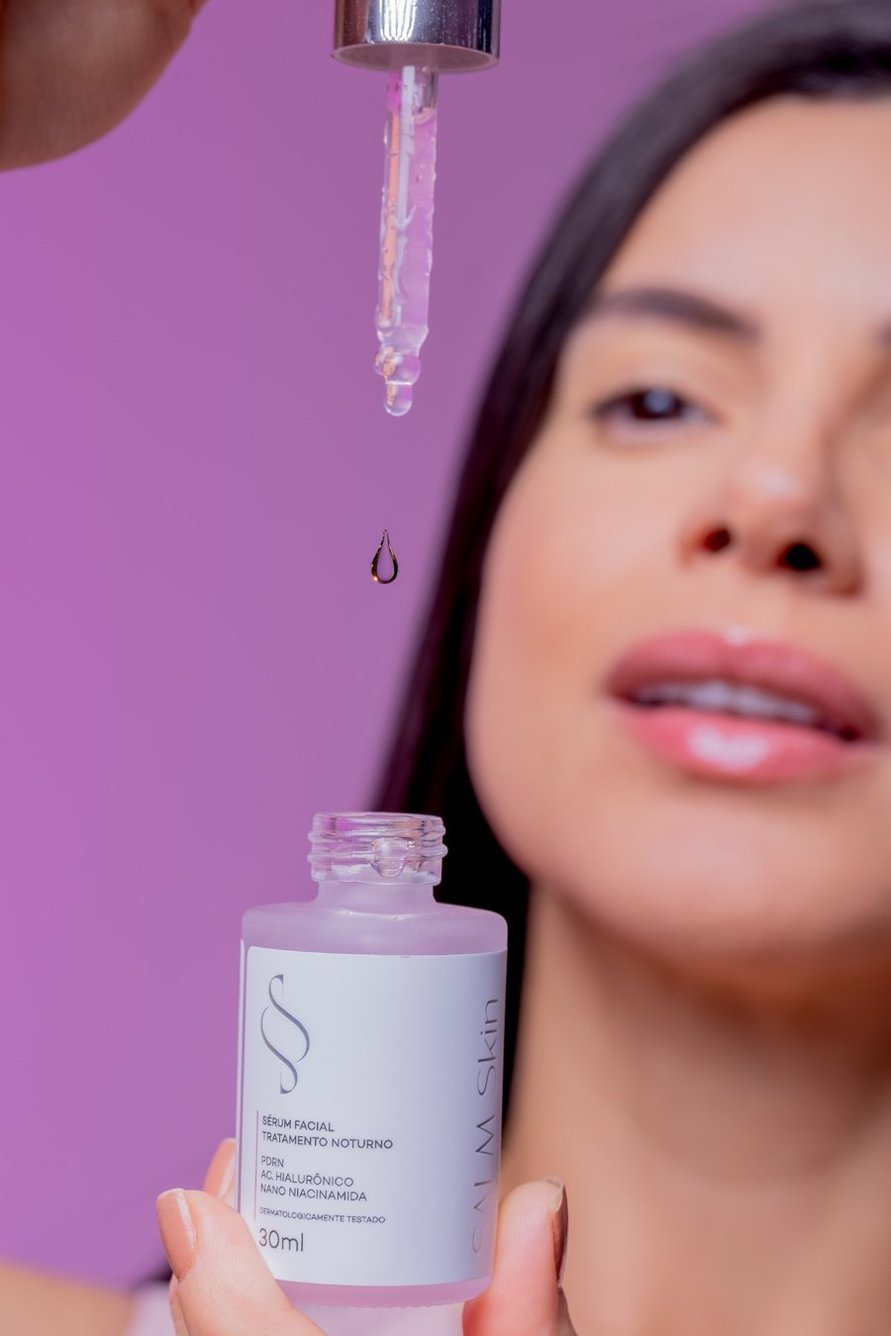
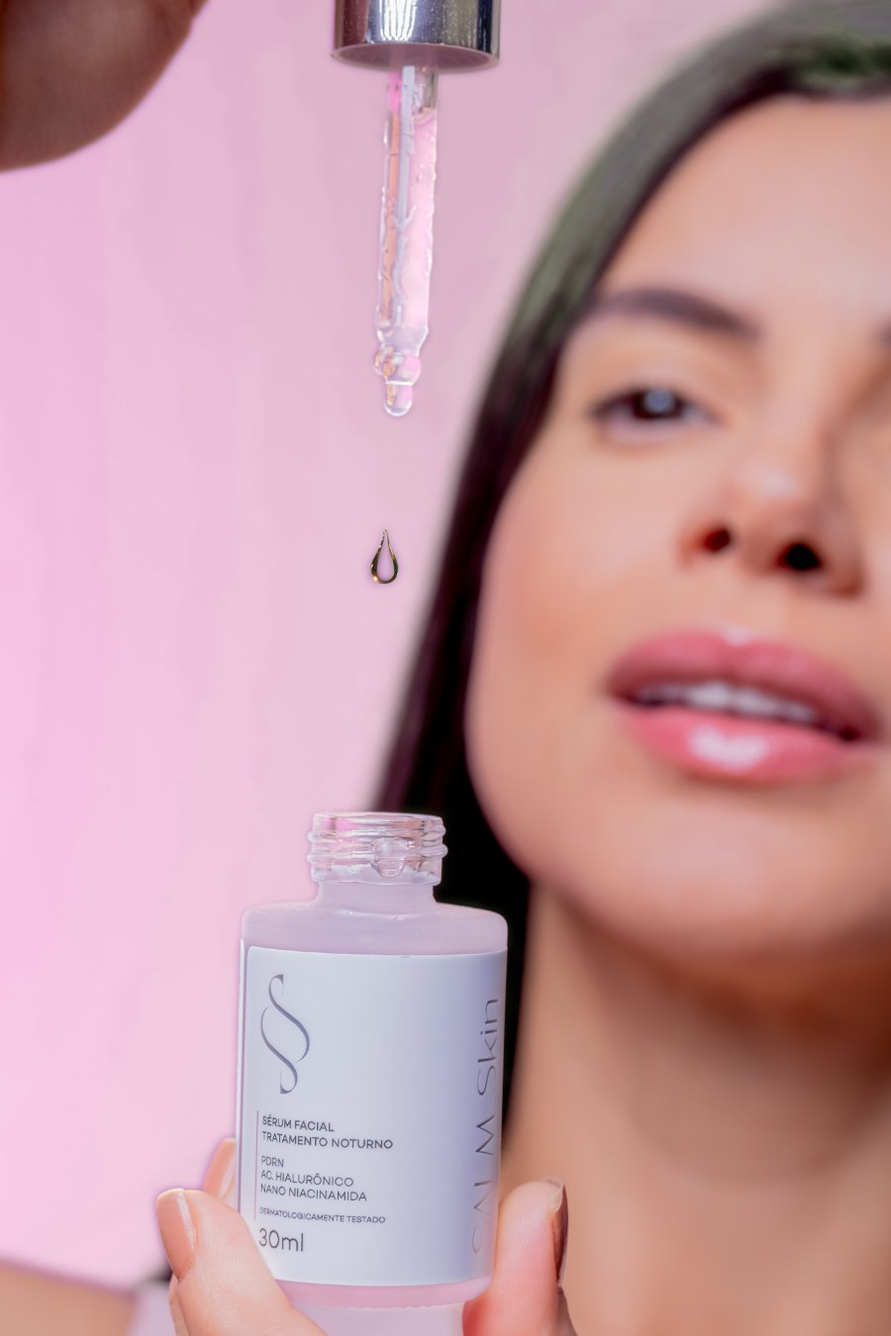
Foto dos benefícios no rosa do topo, sem traços na lista, novo texto dos produtos
- Fundo roxo da foto da gota convertido para o rosa da primeira seção.
- Lista de benefícios sem as linhas separadoras.
- Produtos: Sérum Facial SALM Skin / PDRN · N meses / N dias de tratamento.

Claude-Session: https://claude.ai/code/session_01JWzVUcDYF2pQC29xjZEmTi

diff --git a/style.css b/style.css
@@ -53,4 +53,4 @@ footer{position:relative;overflow:hidden}footer>.footer-symbol{position:absolute
 .benefits-orbit{background:#efc2d9!important;padding:75px 7%}.benefits-orbit>h2{text-align:center;font-size:clamp(30px,4vw,48px);margin:0 0 55px}.benefits-composition{display:grid;grid-template-columns:1fr .9fr 1fr;align-items:center;gap:35px;max-width:1180px;margin:auto}.benefits-side{display:flex;flex-direction:column;gap:35px}.benefit-point{display:grid;grid-template-columns:42px 1fr;align-items:center;gap:16px;font-size:13px;line-height:1.7}.benefit-point svg{width:40px;height:40px;padding:9px;fill:#1c1c1a;background:rgba(255,255,255,.68);border-radius:50%}.benefits-serum{position:relative;display:flex;flex-direction:column;align-items:center}.benefits-serum>img:first-child{width:100%;max-width:330px;height:410px;object-fit:contain;mix-blend-mode:multiply}.benefits-serum>.benefits-seal{width:26px;height:50px;object-fit:contain;margin-top:15px}@media(max-width:700px){.benefits-orbit{padding:55px 7%}.benefits-orbit>h2{margin-bottom:30px;font-size:30px}.benefits-composition{grid-template-columns:1fr;gap:28px}.benefits-serum{grid-row:1}.benefits-serum>img:first-child{height:300px;width:250px}.benefits-side{gap:22px}.benefit-point{font-size:13px}.benefits-serum>.benefits-seal{display:none}}
 
 .catalog-title{text-align:center;font-size:29px;letter-spacing:2px;margin:0 0 40px}.catalog-grid{max-width:1140px;width:100%;gap:24px}.catalog-grid>article{text-align:center;padding:16px;align-items:center}.catalog-image{aspect-ratio:4/3;height:auto;border-radius:16px!important;object-fit:cover;margin-bottom:20px}.catalog-grid>article h3{font-size:14px;line-height:1.6;min-height:68px;margin:16px 0 10px}.catalog-grid>article>span{align-self:center;background:transparent;font-size:10px;padding:0}.catalog-grid>article>p{font-size:12px;margin:8px 0 15px}.catalog-grid>article>p:first-of-type{display:flex;flex-direction:column;gap:6px}.catalog-grid>article strong{font-size:23px;font-weight:500}.plan-details{font-size:11px;width:100%;margin:4px 0 22px}.plan-details summary{cursor:pointer;list-style:none;padding:8px}.plan-details p{font-size:11px;line-height:1.8}.catalog-grid>article>.button{width:100%;margin-top:auto;min-height:44px;padding:15px}.catalog article:nth-child(2) .catalog-image{object-position:75% 40%}.catalog article:nth-child(3) .catalog-image{object-position:45% 52%}@media(max-width:700px){.catalog-grid{max-width:420px;gap:25px}.catalog-grid>article h3{min-height:0}.catalog-image{aspect-ratio:4/3}}
-@media(min-width:701px){.hero-photo .portrait-stage{top:0;bottom:auto;height:100%;width:auto;left:auto;right:8%}.hero-photo .portrait-stage>img{height:100%;width:auto}}.button,button,.whatsapp{background:rgba(255,255,255,.35)!important}.button:hover,button:hover,.whatsapp:hover{background:rgba(255,255,255,.6)!important}.catalog-grid>article{background:transparent!important;backdrop-filter:none!important;-webkit-backdrop-filter:none!important;padding:0!important;border-radius:0!important;overflow:visible}.catalog-grid>article .catalog-image{aspect-ratio:4/3;border-radius:16px!important;margin-bottom:20px}.catalog-grid>article h3{font-size:13px;letter-spacing:2.5px;text-transform:uppercase;font-weight:500;min-height:0;margin:0 0 10px}.catalog-grid>article>p.cat-desc{display:block;font-size:12px;line-height:1.7;color:#606060;margin:0 0 14px}.catalog-grid>article>p.cat-price{display:flex;flex-direction:row;align-items:baseline;justify-content:center;gap:10px;margin:0 0 6px}.cat-price strong{font-size:18px!important;font-weight:500}.cat-price del{font-size:11px;color:#606060}.cat-price span{font-size:10px;letter-spacing:1px;color:#606060}.catalog-grid>article .plan-details{margin:0 0 16px}.catalog-grid>article>.button{width:auto!important;min-width:55%;min-height:0;padding:13px 30px!important;margin-top:auto}.hero-photo .portrait-stage>img.hero-symbol{position:absolute;inset:auto;left:20%;top:4%;width:76%;height:91%;object-fit:contain;opacity:.08;z-index:0;pointer-events:none}.hero-photo .portrait-stage>img:not(.hero-symbol){position:relative;z-index:1}.hero-photo .portrait-stage .serum-drop{z-index:2}.benefit-point svg.line-icon{width:34px;height:34px;padding:0;background:none;border-radius:0;fill:none;stroke:#1c1c1a;stroke-width:1.3;stroke-linecap:round;stroke-linejoin:round}.benefits-serum>img:first-child{mix-blend-mode:normal;filter:drop-shadow(0 18px 22px rgba(96,96,96,.18))}header{background:rgba(255,255,255,.5)!important;backdrop-filter:blur(14px);-webkit-backdrop-filter:blur(14px);border-bottom:1px solid rgba(255,255,255,.6)!important}.hero-photo .portrait-stage>img.hero-symbol{left:30%;top:16%;width:56%;height:66%;filter:brightness(0) invert(1);opacity:.45}.benefits-serum>img:first-child{width:100%;max-width:320px;height:auto;aspect-ratio:3/4;object-fit:cover;border-radius:16px;filter:none;mix-blend-mode:normal}@media(max-width:700px){.benefits-serum>img:first-child{width:100%;max-width:300px;height:auto}}.catalog-grid{max-width:940px!important;gap:48px!important}.catalog-grid>article .catalog-image{aspect-ratio:4/5}@media(max-width:700px){.catalog-grid{max-width:340px!important;gap:40px!important}}.serum-story>.liquid-copy{background:rgba(255,255,255,.35);margin:50px 5% 50px 40%;padding:34px 48px}@media(max-width:700px){.serum-story>.liquid-copy{margin:-100px 5% 35px;padding:25px}}.benefits-serum>img.benefits-model{width:100%;max-width:340px;height:auto;aspect-ratio:1060/1484;object-fit:contain;border-radius:0;filter:none;mix-blend-mode:normal}@media(max-width:700px){.benefits-serum>img.benefits-model{max-width:280px;height:auto}}.benefits-serum>img.benefits-model{-webkit-mask-image:linear-gradient(to bottom,#000 72%,transparent 98%),linear-gradient(to right,transparent 0,#000 14%);-webkit-mask-composite:source-in;mask-image:linear-gradient(to bottom,#000 72%,transparent 98%),linear-gradient(to right,transparent 0,#000 14%);mask-composite:intersect}@media(min-width:701px){.benefit-point{position:relative}.benefits-side:first-child .benefit-point::after,.benefits-side:last-child .benefit-point::before{content:"";position:absolute;top:50%;width:46px;height:1px;background:#1c1c1a;opacity:.55}.benefits-side:first-child .benefit-point::after{left:calc(100% + 8px)}.benefits-side:last-child .benefit-point::before{right:calc(100% + 8px)}.benefits-side .benefit-point>i.dot{display:none}}@media(min-width:701px){.benefits-side:first-child .benefit-point::after{background:linear-gradient(#1c1c1a,#1c1c1a) left/100% 1px no-repeat;height:7px;margin-top:-3px;background-color:transparent}.benefits-side:first-child .benefit-point::after,.benefits-side:last-child .benefit-point::before{-webkit-mask:none}}.benefits-serum>img.benefits-model{-webkit-mask-image:linear-gradient(to bottom,#000 72%,transparent 98%),linear-gradient(to right,transparent 0,#000 14%,#000 86%,transparent 100%);mask-image:linear-gradient(to bottom,#000 72%,transparent 98%),linear-gradient(to right,transparent 0,#000 14%,#000 86%,transparent 100%)}@media(min-width:701px){.benefits-side:first-child .benefit-point::after,.benefits-side:last-child .benefit-point::before{height:7px;margin-top:-3px;width:56px;opacity:.6;background-color:transparent}.benefits-side:first-child .benefit-point::after{background:radial-gradient(circle,#1c1c1a 2.5px,transparent 3px) right center/7px 7px no-repeat,linear-gradient(#1c1c1a,#1c1c1a) left center/calc(100% - 4px) 1px no-repeat}.benefits-side:last-child .benefit-point::before{background:radial-gradient(circle,#1c1c1a 2.5px,transparent 3px) left center/7px 7px no-repeat,linear-gradient(#1c1c1a,#1c1c1a) right center/calc(100% - 4px) 1px no-repeat}}.benefits-orbit>h2.ad-title{display:flex;flex-direction:column;align-items:center;line-height:1;margin:0 0 50px;color:#7a5868}.ad-title .t-small{font-size:clamp(20px,2.4vw,32px);letter-spacing:.45em;margin-right:-.45em;font-weight:400}.ad-title .t-big{font-size:clamp(52px,7vw,96px);font-weight:600;letter-spacing:.02em;margin-top:6px}.benefits-side .benefit-point{display:flex;align-items:center;width:max-content;max-width:290px;background:rgba(110,78,94,.82);color:#fff;border-radius:14px;padding:12px 20px 12px 14px;font-size:13px;line-height:1.4;box-shadow:0 10px 24px rgba(80,50,65,.18);-webkit-backdrop-filter:blur(6px);backdrop-filter:blur(6px);position:relative;z-index:2}.benefits-side .benefit-point svg.line-icon{width:44px;height:30px;flex:0 0 44px;stroke:#fff;padding:0 12px 0 0;margin-right:14px;border-right:1px solid rgba(255,255,255,.55);box-sizing:border-box}.benefits-side .benefit-point::before,.benefits-side .benefit-point::after{content:none!important}@media(min-width:701px){.benefits-composition{grid-template-columns:1fr minmax(0,340px) 1fr;gap:0}.benefits-side{gap:26px}.benefits-side:first-child{align-items:flex-end;margin-right:-60px;z-index:2}.benefits-side:last-child{align-items:flex-start;margin-left:-60px;z-index:2}.benefits-side:first-child .benefit-point:nth-child(even){transform:translateX(-36px)}.benefits-side:last-child .benefit-point:nth-child(even){transform:translateX(36px)}}@media(max-width:700px){.benefits-side .benefit-point{width:100%;max-width:none}.benefits-orbit>h2.ad-title{margin-bottom:30px}}.benefits-orbit .ad-title span{color:#7a5868!important}.benefits-orbit .ad-title .t-big{font-weight:600;letter-spacing:.01em}.benefits-orbit .ad-title .t-big{font-weight:700}@media(min-width:701px){.hero .intro{min-height:720px;display:flex;flex-direction:column;justify-content:flex-end;padding-top:60px;padding-bottom:0;box-sizing:border-box}.hero .intro .button{align-self:flex-start;margin-bottom:0}}@media(min-width:1450px){.hero .intro{min-height:820px}}.benefits-orbit{background:#f7e3ec!important}.catalog-grid>article>p.cat-desc{margin:0 0 8px}.catalog-grid>article>p.cat-old{display:flex;justify-content:center;align-items:baseline;gap:10px;margin:6px 0 2px;font-size:11px;color:#606060}.cat-old del{color:#606060}.cat-old span{letter-spacing:1px;font-size:10px}.catalog-grid>article>p.cat-price{display:block;margin:0 0 8px}.catalog-grid>article>p.cat-price strong{font-size:22px!important}.catalog-grid>article .plan-details{margin:0 0 14px}.catalog-grid>article .plan-details summary{padding:4px}.benefits-orbit .benefits-composition{display:grid;grid-template-columns:1fr 1fr;grid-template-areas:"title img" "a img" "b img";grid-template-rows:auto auto 1fr;column-gap:70px;row-gap:0;max-width:1120px;align-items:start}.benefits-orbit .benefits-composition>h2.ad-title{grid-area:title;align-items:flex-start;margin:0 0 26px;text-align:left}.ad-title .t-small{margin-right:0}.benefits-orbit .benefits-side{grid-area:a;margin:0!important;gap:0;align-items:stretch!important}.benefits-orbit .benefits-side:last-child{grid-area:b}.benefits-orbit .benefits-serum{grid-area:img;align-self:stretch}.benefits-serum>img.benefits-photo{width:100%;height:100%;min-height:560px;max-height:720px;object-fit:cover;object-position:50% 40%;border-radius:16px;display:block}.benefits-side .benefit-point{width:100%!important;max-width:none!important;background:none!important;color:#1c1c1a;border-radius:0;padding:15px 0;box-shadow:none;-webkit-backdrop-filter:none;backdrop-filter:none;transform:none!important;border-bottom:1px solid rgba(96,96,96,.22);font-size:14px}.benefits-side .benefit-point svg.line-icon{stroke:#7a5868;border-right-color:rgba(122,88,104,.35)}@media(max-width:700px){.benefits-orbit .benefits-composition{grid-template-columns:1fr;grid-template-areas:"title" "img" "a" "b";grid-template-rows:auto;row-gap:0}.benefits-orbit .benefits-composition>h2.ad-title{align-items:center;margin-bottom:24px}.benefits-serum>img.benefits-photo{min-height:0;height:auto;aspect-ratio:4/5;margin-bottom:20px}}.benefits-orbit .benefits-composition{grid-template-columns:minmax(0,1fr) minmax(0,1fr)}.benefits-orbit .benefits-composition>h2.ad-title{display:flex;flex-direction:column;line-height:1}.benefits-orbit .ad-title .t-big{font-size:clamp(44px,5.4vw,78px)}@media(max-width:700px){.benefits-orbit .benefits-composition{grid-template-columns:minmax(0,1fr)}.benefits-orbit .ad-title .t-big{font-size:clamp(40px,12vw,56px)}}.benefits-serum>img.benefits-photo{max-width:none;width:100%}@media(min-width:701px){.hero .intro{padding-bottom:110px}}@media(min-width:701px){.hero-photo .portrait-stage{top:auto!important;bottom:0!important;height:122%!important;right:0!important}}
+@media(min-width:701px){.hero-photo .portrait-stage{top:0;bottom:auto;height:100%;width:auto;left:auto;right:8%}.hero-photo .portrait-stage>img{height:100%;width:auto}}.button,button,.whatsapp{background:rgba(255,255,255,.35)!important}.button:hover,button:hover,.whatsapp:hover{background:rgba(255,255,255,.6)!important}.catalog-grid>article{background:transparent!important;backdrop-filter:none!important;-webkit-backdrop-filter:none!important;padding:0!important;border-radius:0!important;overflow:visible}.catalog-grid>article .catalog-image{aspect-ratio:4/3;border-radius:16px!important;margin-bottom:20px}.catalog-grid>article h3{font-size:13px;letter-spacing:2.5px;text-transform:uppercase;font-weight:500;min-height:0;margin:0 0 10px}.catalog-grid>article>p.cat-desc{display:block;font-size:12px;line-height:1.7;color:#606060;margin:0 0 14px}.catalog-grid>article>p.cat-price{display:flex;flex-direction:row;align-items:baseline;justify-content:center;gap:10px;margin:0 0 6px}.cat-price strong{font-size:18px!important;font-weight:500}.cat-price del{font-size:11px;color:#606060}.cat-price span{font-size:10px;letter-spacing:1px;color:#606060}.catalog-grid>article .plan-details{margin:0 0 16px}.catalog-grid>article>.button{width:auto!important;min-width:55%;min-height:0;padding:13px 30px!important;margin-top:auto}.hero-photo .portrait-stage>img.hero-symbol{position:absolute;inset:auto;left:20%;top:4%;width:76%;height:91%;object-fit:contain;opacity:.08;z-index:0;pointer-events:none}.hero-photo .portrait-stage>img:not(.hero-symbol){position:relative;z-index:1}.hero-photo .portrait-stage .serum-drop{z-index:2}.benefit-point svg.line-icon{width:34px;height:34px;padding:0;background:none;border-radius:0;fill:none;stroke:#1c1c1a;stroke-width:1.3;stroke-linecap:round;stroke-linejoin:round}.benefits-serum>img:first-child{mix-blend-mode:normal;filter:drop-shadow(0 18px 22px rgba(96,96,96,.18))}header{background:rgba(255,255,255,.5)!important;backdrop-filter:blur(14px);-webkit-backdrop-filter:blur(14px);border-bottom:1px solid rgba(255,255,255,.6)!important}.hero-photo .portrait-stage>img.hero-symbol{left:30%;top:16%;width:56%;height:66%;filter:brightness(0) invert(1);opacity:.45}.benefits-serum>img:first-child{width:100%;max-width:320px;height:auto;aspect-ratio:3/4;object-fit:cover;border-radius:16px;filter:none;mix-blend-mode:normal}@media(max-width:700px){.benefits-serum>img:first-child{width:100%;max-width:300px;height:auto}}.catalog-grid{max-width:940px!important;gap:48px!important}.catalog-grid>article .catalog-image{aspect-ratio:4/5}@media(max-width:700px){.catalog-grid{max-width:340px!important;gap:40px!important}}.serum-story>.liquid-copy{background:rgba(255,255,255,.35);margin:50px 5% 50px 40%;padding:34px 48px}@media(max-width:700px){.serum-story>.liquid-copy{margin:-100px 5% 35px;padding:25px}}.benefits-serum>img.benefits-model{width:100%;max-width:340px;height:auto;aspect-ratio:1060/1484;object-fit:contain;border-radius:0;filter:none;mix-blend-mode:normal}@media(max-width:700px){.benefits-serum>img.benefits-model{max-width:280px;height:auto}}.benefits-serum>img.benefits-model{-webkit-mask-image:linear-gradient(to bottom,#000 72%,transparent 98%),linear-gradient(to right,transparent 0,#000 14%);-webkit-mask-composite:source-in;mask-image:linear-gradient(to bottom,#000 72%,transparent 98%),linear-gradient(to right,transparent 0,#000 14%);mask-composite:intersect}@media(min-width:701px){.benefit-point{position:relative}.benefits-side:first-child .benefit-point::after,.benefits-side:last-child .benefit-point::before{content:"";position:absolute;top:50%;width:46px;height:1px;background:#1c1c1a;opacity:.55}.benefits-side:first-child .benefit-point::after{left:calc(100% + 8px)}.benefits-side:last-child .benefit-point::before{right:calc(100% + 8px)}.benefits-side .benefit-point>i.dot{display:none}}@media(min-width:701px){.benefits-side:first-child .benefit-point::after{background:linear-gradient(#1c1c1a,#1c1c1a) left/100% 1px no-repeat;height:7px;margin-top:-3px;background-color:transparent}.benefits-side:first-child .benefit-point::after,.benefits-side:last-child .benefit-point::before{-webkit-mask:none}}.benefits-serum>img.benefits-model{-webkit-mask-image:linear-gradient(to bottom,#000 72%,transparent 98%),linear-gradient(to right,transparent 0,#000 14%,#000 86%,transparent 100%);mask-image:linear-gradient(to bottom,#000 72%,transparent 98%),linear-gradient(to right,transparent 0,#000 14%,#000 86%,transparent 100%)}@media(min-width:701px){.benefits-side:first-child .benefit-point::after,.benefits-side:last-child .benefit-point::before{height:7px;margin-top:-3px;width:56px;opacity:.6;background-color:transparent}.benefits-side:first-child .benefit-point::after{background:radial-gradient(circle,#1c1c1a 2.5px,transparent 3px) right center/7px 7px no-repeat,linear-gradient(#1c1c1a,#1c1c1a) left center/calc(100% - 4px) 1px no-repeat}.benefits-side:last-child .benefit-point::before{background:radial-gradient(circle,#1c1c1a 2.5px,transparent 3px) left center/7px 7px no-repeat,linear-gradient(#1c1c1a,#1c1c1a) right center/calc(100% - 4px) 1px no-repeat}}.benefits-orbit>h2.ad-title{display:flex;flex-direction:column;align-items:center;line-height:1;margin:0 0 50px;color:#7a5868}.ad-title .t-small{font-size:clamp(20px,2.4vw,32px);letter-spacing:.45em;margin-right:-.45em;font-weight:400}.ad-title .t-big{font-size:clamp(52px,7vw,96px);font-weight:600;letter-spacing:.02em;margin-top:6px}.benefits-side .benefit-point{display:flex;align-items:center;width:max-content;max-width:290px;background:rgba(110,78,94,.82);color:#fff;border-radius:14px;padding:12px 20px 12px 14px;font-size:13px;line-height:1.4;box-shadow:0 10px 24px rgba(80,50,65,.18);-webkit-backdrop-filter:blur(6px);backdrop-filter:blur(6px);position:relative;z-index:2}.benefits-side .benefit-point svg.line-icon{width:44px;height:30px;flex:0 0 44px;stroke:#fff;padding:0 12px 0 0;margin-right:14px;border-right:1px solid rgba(255,255,255,.55);box-sizing:border-box}.benefits-side .benefit-point::before,.benefits-side .benefit-point::after{content:none!important}@media(min-width:701px){.benefits-composition{grid-template-columns:1fr minmax(0,340px) 1fr;gap:0}.benefits-side{gap:26px}.benefits-side:first-child{align-items:flex-end;margin-right:-60px;z-index:2}.benefits-side:last-child{align-items:flex-start;margin-left:-60px;z-index:2}.benefits-side:first-child .benefit-point:nth-child(even){transform:translateX(-36px)}.benefits-side:last-child .benefit-point:nth-child(even){transform:translateX(36px)}}@media(max-width:700px){.benefits-side .benefit-point{width:100%;max-width:none}.benefits-orbit>h2.ad-title{margin-bottom:30px}}.benefits-orbit .ad-title span{color:#7a5868!important}.benefits-orbit .ad-title .t-big{font-weight:600;letter-spacing:.01em}.benefits-orbit .ad-title .t-big{font-weight:700}@media(min-width:701px){.hero .intro{min-height:720px;display:flex;flex-direction:column;justify-content:flex-end;padding-top:60px;padding-bottom:0;box-sizing:border-box}.hero .intro .button{align-self:flex-start;margin-bottom:0}}@media(min-width:1450px){.hero .intro{min-height:820px}}.benefits-orbit{background:#f7e3ec!important}.catalog-grid>article>p.cat-desc{margin:0 0 8px}.catalog-grid>article>p.cat-old{display:flex;justify-content:center;align-items:baseline;gap:10px;margin:6px 0 2px;font-size:11px;color:#606060}.cat-old del{color:#606060}.cat-old span{letter-spacing:1px;font-size:10px}.catalog-grid>article>p.cat-price{display:block;margin:0 0 8px}.catalog-grid>article>p.cat-price strong{font-size:22px!important}.catalog-grid>article .plan-details{margin:0 0 14px}.catalog-grid>article .plan-details summary{padding:4px}.benefits-orbit .benefits-composition{display:grid;grid-template-columns:1fr 1fr;grid-template-areas:"title img" "a img" "b img";grid-template-rows:auto auto 1fr;column-gap:70px;row-gap:0;max-width:1120px;align-items:start}.benefits-orbit .benefits-composition>h2.ad-title{grid-area:title;align-items:flex-start;margin:0 0 26px;text-align:left}.ad-title .t-small{margin-right:0}.benefits-orbit .benefits-side{grid-area:a;margin:0!important;gap:0;align-items:stretch!important}.benefits-orbit .benefits-side:last-child{grid-area:b}.benefits-orbit .benefits-serum{grid-area:img;align-self:stretch}.benefits-serum>img.benefits-photo{width:100%;height:100%;min-height:560px;max-height:720px;object-fit:cover;object-position:50% 40%;border-radius:16px;display:block}.benefits-side .benefit-point{width:100%!important;max-width:none!important;background:none!important;color:#1c1c1a;border-radius:0;padding:15px 0;box-shadow:none;-webkit-backdrop-filter:none;backdrop-filter:none;transform:none!important;border-bottom:1px solid rgba(96,96,96,.22);font-size:14px}.benefits-side .benefit-point svg.line-icon{stroke:#7a5868;border-right-color:rgba(122,88,104,.35)}@media(max-width:700px){.benefits-orbit .benefits-composition{grid-template-columns:1fr;grid-template-areas:"title" "img" "a" "b";grid-template-rows:auto;row-gap:0}.benefits-orbit .benefits-composition>h2.ad-title{align-items:center;margin-bottom:24px}.benefits-serum>img.benefits-photo{min-height:0;height:auto;aspect-ratio:4/5;margin-bottom:20px}}.benefits-orbit .benefits-composition{grid-template-columns:minmax(0,1fr) minmax(0,1fr)}.benefits-orbit .benefits-composition>h2.ad-title{display:flex;flex-direction:column;line-height:1}.benefits-orbit .ad-title .t-big{font-size:clamp(44px,5.4vw,78px)}@media(max-width:700px){.benefits-orbit .benefits-composition{grid-template-columns:minmax(0,1fr)}.benefits-orbit .ad-title .t-big{font-size:clamp(40px,12vw,56px)}}.benefits-serum>img.benefits-photo{max-width:none;width:100%}@media(min-width:701px){.hero .intro{padding-bottom:110px}}@media(min-width:701px){.hero-photo .portrait-stage{top:auto!important;bottom:0!important;height:122%!important;right:0!important}}.benefits-side .benefit-point{border-bottom:0!important;padding:12px 0}

diff --git a/index.html b/index.html
@@ -1,3 +1,3 @@
-<!doctype html><html lang="pt-BR"><head><meta charset="UTF-8"><meta name="viewport" content="width=device-width,initial-scale=1"><title>SALM Skin</title><link rel="stylesheet" href="style.css"></head><body><header><a href="#inicio" aria-label="SALM Skin início"><img src="assets/wordmark.png" alt="SALM Skin"></a><nav><a href="#inicio">INÍCIO</a><a href="#serum">COMPRAR</a><a href="https://salmskin.lojavirtualnuvem.com.br/politica-de-privacidade">POLÍTICA DE PRIVACIDADE</a></nav><a class="shop" href="https://salmskin.lojavirtualnuvem.com.br/account/login">ACESSE SUA CONTA</a></header><main><section class="hero" id="inicio"><div class="intro"><h1>Sérum Facial<br><em>PDRN</em></h1><p class="lead">O <img class="brand-inline" src="assets/wordmark.png" alt="SALM Skin"> Sérum Facial Noturno foi desenvolvido com tecnologia avançada para promover uma renovação intensa da pele durante o período de descanso. Sua fórmula inteligente combina ativos nanoencapsulados de alta performance, que garantem maior absorção, eficácia e resultados visíveis em curto prazo.</p><a class="button" href="#serum">O SÉRUM</a></div><div class="liquid-photo hero-photo"><div class="portrait-stage"><img src="assets/ritual-transparent.png" alt="Modelo com conta-gotas e frasco SALM Skin"><i class="serum-drop"></i><i class="serum-drop second"></i></div></div></section><section class="section benefits benefits-orbit"><div class="benefits-composition"><h2 class="ad-title"><span class="t-small">Benefícios</span><span class="t-big">PRINCIPAIS</span></h2><div class="benefits-side"><article class="benefit-point"><svg class="line-icon" viewBox="0 0 24 24" aria-hidden="true"><path d="M20 14.5A8.5 8.5 0 0 1 9.5 4 8.5 8.5 0 1 0 20 14.5Z"/><path d="M17 3v4M15 5h4"/></svg>Estimula a regeneração noturna da pele</article><article class="benefit-point"><svg class="line-icon" viewBox="0 0 24 24" aria-hidden="true"><path d="M12 3v18M8 7l4-4 4 4M8 17l4 4 4-4"/><path d="M5 12h14"/></svg>Melhora a firmeza e elasticidade</article><article class="benefit-point"><svg class="line-icon" viewBox="0 0 24 24" aria-hidden="true"><path d="M3 7c3-2 6 2 9 0s6-2 9 0"/><path d="M3 12c3-1.3 6 1.3 9 0s6-1.3 9 0"/><path d="M3 17h18"/></svg>Reduz linhas finas e sinais de fadiga</article><article class="benefit-point"><svg class="line-icon" viewBox="0 0 24 24" aria-hidden="true"><path d="M12 3c-3 4.5-6 8-6 11a6 6 0 0 0 12 0c0-3-3-6.5-6-11Z"/><path d="M9.5 14.5a2.5 2.5 0 0 0 2.5 2.5"/></svg>Proporciona hidratação intensa e duradoura</article></div><div class="benefits-serum"><img class="benefits-photo" src="assets/serum-gota-foto.jpg" alt="Gota do Sérum Facial SALM Skin PDRN caindo no frasco"></div><div class="benefits-side"><article class="benefit-point"><svg class="line-icon" viewBox="0 0 24 24" aria-hidden="true"><circle cx="12" cy="12" r="4"/><path d="M12 2v2.5M12 19.5V22M2 12h2.5M19.5 12H22M4.9 4.9l1.8 1.8M17.3 17.3l1.8 1.8M4.9 19.1l1.8-1.8M17.3 6.7l1.8-1.8"/></svg>Uniformiza o tom e ilumina a pele</article><article class="benefit-point"><svg class="line-icon" viewBox="0 0 24 24" aria-hidden="true"><path d="M12 4v16M8 20h8M5 7h14"/><path d="M5 7l-2.5 6a2.5 2.5 0 0 0 5 0Z"/><path d="M19 7l-2.5 6a2.5 2.5 0 0 0 5 0Z"/></svg>Controla a oleosidade sem ressecar</article><article class="benefit-point"><svg class="line-icon" viewBox="0 0 24 24" aria-hidden="true"><path d="M20 4C11 4 5 9 5 17v3"/><path d="M20 4c0 9-5 14-13 14"/><path d="M5 17 15 9"/></svg>Textura leve, rápida absorção e toque sedoso</article></div></div></section><section class="section catalog" id="serum"><h2 class="catalog-title">O SÉRUM</h2><div class="catalog-grid"><article><img class="catalog-image" src="assets/serum-real-rosa.png" alt="Starter Glow"><h3>Starter Glow</h3><p class="cat-desc">Sérum Facial SALM Skin PDRN<br>1 mês · 30 dias de tratamento</p><p class="cat-old"><del>R$259,00</del> <span>27% OFF</span></p><p class="cat-price"><strong>R$189,00</strong></p><details class="plan-details"><summary>Saiba mais</summary><p>Ideal para quem deseja iniciar sua jornada de cuidados com a SALM Skin. Este frasco é o ponto de partida para adaptar sua pele à tecnologia nanoencapsulada e sentir os primeiros sinais de renovação e viço.</p></details><a class="button" href="https://salmskin.lojavirtualnuvem.com.br/produtos/serum-facial-salm-skin-pdrn">COMPRAR </a></article><article><img class="catalog-image" src="assets/serum-modelo-rosa.png" alt="Advanced Care"><h3>Advanced Care</h3><p class="cat-desc">Sérum Facial SALM Skin PDRN<br>2 meses · Economia de R$ 60,00</p><p class="cat-old"><del>R$529,00</del> <span>32% OFF</span></p><p class="cat-price"><strong>R$359,00</strong></p><details class="plan-details"><summary>Saiba mais</summary><p>Quando o cuidado vira rotina. Este kit com 2 séruns é focado em quem já busca resultados mais consistentes na uniformização do tom e na firmeza da pele. A constância potencializa a ação regeneradora do Nano PDRN.</p></details><a class="button" href="https://salmskin.lojavirtualnuvem.com.br/produtos/serum-facial-salm-skin-pdrn-copia">COMPRAR </a></article><article><img class="catalog-image" src="assets/serum-gota-rosa.png" alt="Pro Skin Treatment"><h3>Pro Skin Treatment</h3><p class="cat-desc">Sérum Facial SALM Skin PDRN<br>3 meses · O melhor custo-benefício</p><p class="cat-old"><del>R$779,00</del> <span>35% OFF</span></p><p class="cat-price"><strong>R$509,00</strong></p><details class="plan-details"><summary>Saiba mais</summary><p>BÔNUS EXCLUSIVO: Frete Grátis + Mini Guia Digital &quot;Rotina de Pele SALM Skin&quot;.<br><br>O protocolo recomendado para a transformação real da sua pele. Três meses é o ciclo ideal para que os ativos nanoencapsulados atuem profundamente em todas as camadas, entregando o máximo de regeneração, clareamento e rejuvenescimento.</p></details><a class="button" href="https://salmskin.lojavirtualnuvem.com.br/produtos/serum-facial-salm-skin-pdrn-copia1">COMPRAR </a></article></div></section><section class="liquid-section serum-story"><div class="faithful-product"><img src="assets/serum-recorte.png" alt="Embalagem original do Sérum Facial SALM Skin PDRN"></div><div class="liquid-copy"><h2>Sérum Facial<br><em><img class="brand-inline" src="assets/wordmark.png" alt="SALM Skin"> PDRN</em></h2><p>Regeneração Profunda Enquanto Você Dorme</p><p>Descubra o poder da renovação intensa com o Sérum Facial <img class="brand-inline" src="assets/wordmark.png" alt="SALM Skin"> PDRN, desenvolvido com tecnologia de ponta para transformar sua pele durante o descanso. Sua fórmula avançada conta com ativos nanoencapsulados que garantem absorção máxima e resultados visíveis em pouco tempo.</p></div></section><section class="formula section"><h2>Ativos Principais</h2><div class="ingredients"><article><svg class="active-icon" viewBox="0 0 32 32" aria-hidden="true"><circle cx="16" cy="16" r="7"/><circle cx="6" cy="8" r="3"/><circle cx="26" cy="8" r="3"/><circle cx="6" cy="25" r="3"/><circle cx="26" cy="25" r="3"/></svg><h3>Nano PDRN</h3><p>Estimula a renovação celular e a produção de colágeno, promovendo a reparação dos tecidos. Reduz linhas finas e melhora a firmeza da pele.</p></article><article><svg class="active-icon" viewBox="0 0 32 32" aria-hidden="true"><path d="M16 2C13 8 5 15 5 21a11 11 0 0 0 22 0C27 15 19 8 16 2Z"/></svg><h3>Ácido Hialurônico</h3><p>Proporciona hidratação profunda e prolongada, retendo a umidade natural da pele.</p></article><article><svg class="active-icon" viewBox="0 0 32 32" aria-hidden="true"><path d="m16 1 4 10 11 5-11 4-4 11-5-11L1 16l10-5Z"/></svg><h3>Nano Niacinamida (Vitamina B3)</h3><p>Uniformiza o tom da pele, reduz manchas e controla a oleosidade.</p></article></div></section><section class="ritual section"><img class="section-symbol" src="assets/symbol.png" alt=""><h2>Modo de Uso</h2><p>Com as mãos limpas, aplique de 3 a 4 gotas no rosto.</p><p>Espalhe com movimentos circulares até completa absorção.</p></section><section class="section label-info"><h2>Sobre o sérum</h2><p>O Sérum Facial SALM Skin é um potente hidratante enriquecido com ativos que proporcionam uma hidratação profunda, deixando uma sensação de suavidade irresistível.</p><p>Tratamento noturno · 30 ml · Dermatologicamente testado</p><details><summary>Composição</summary><p>Aqua, Xanthan Gum, Panthenol, Niacinamide, Propylene Glycol, Diazolidinyl Urea, Parfum, Lecithin, Sodium Hyaluronate, Sodium DNA, Caprylic/Capric Triglyceride, Phenoxyethanol, Polysorbate 80, Sorbitan Stearate, Caprylyl Glycol, PCA Ethyl Cocoyl Arginate, Benzyl Salicylate, Limonene, Iodopropynyl Butylcarbamate, Cyanocobalamin, Lactic Acid.</p></details><details><summary>Precauções</summary><p>Mantenha fora do alcance das crianças, em local fresco e protegido dos raios solares. Caso o produto entre em contato com os olhos, lave imediatamente com água em abundância. No caso de irritação, suspenda o uso e, se necessário, procure orientação médica. Uso externo.</p></details></section></main><footer><img class="footer-symbol" src="assets/symbol.png" alt="Símbolo SALM Skin"><img src="assets/wordmark.png" alt="SALM Skin"><a href="https://salmskin.lojavirtualnuvem.com.br/politica-de-privacidade">POLÍTICA DE PRIVACIDADE</a><div class="footer-contact" id="contato"><h3>CONTATO</h3><a class="social-link" href="https://www.instagram.com/salmskin/" target="_blank" rel="noopener noreferrer" aria-label="Instagram SALM Skin"><svg viewBox="0 0 24 24" aria-hidden="true"><rect x="3" y="3" width="18" height="18" rx="5" fill="none" stroke="currentColor" stroke-width="1.7"/><circle cx="12" cy="12" r="4" fill="none" stroke="currentColor" stroke-width="1.7"/><circle cx="17.5" cy="6.5" r="1" fill="currentColor"/></svg>@salmskin</a><p><a href="https://wa.me/5566992046531"><svg class="contact-icon" viewBox="0 0 24 24" fill="currentColor" aria-hidden="true"><path d="M12 2a10 10 0 0 0-8.6 15.1L2 22l5-1.3A10 10 0 1 0 12 2Zm-4 5c.4-.4.8-.3 1 .2l1 2c.2.4-.5 1-.7 1.3.8 1.7 1.8 2.7 3.5 3.4.4-.3.8-1.2 1.3-1l2 1c.5.2.6.5.3 1.1-.6 1.2-1.5 1.7-2.8 1.3-3.8-1-6.1-3.3-7.1-6.8C6.2 8.7 6.8 7.7 8 7Z"/></svg>66992046531</a></p><p><a href="tel:+5566992046531"><svg class="contact-icon" viewBox="0 0 24 24" fill="currentColor" aria-hidden="true"><path d="M6 2 2 5c0 9 8 17 17 17l3-4-5-4-3 3c-3-1-6-4-7-7l3-3Z"/></svg>+5566992046531</a></p><p><a href="mailto:dominiquemariadossantos@gmail.com"><svg class="contact-icon" viewBox="0 0 24 24" fill="currentColor" aria-hidden="true"><path d="M2 5h20v14H2Zm2 2v1l8 6 8-6V7l-8 6Z" fill-rule="evenodd"/></svg>DOMINIQUEMARIADOSSANTOS@GMAIL.COM</a></p><a class="button" href="https://salmskin.lojavirtualnuvem.com.br/contato">CONTATO </a></div><div class="creator-credit">Criado por <a href="https://www.instagram.com/designer.alannedias/" target="_blank" rel="noopener noreferrer">@designer.alannedias</a></div></footer><a class="whatsapp" href="https://wa.me/5566992046531">Fale conosco pelo WhatsApp </a><script src="app.js"></script></body></html>
+<!doctype html><html lang="pt-BR"><head><meta charset="UTF-8"><meta name="viewport" content="width=device-width,initial-scale=1"><title>SALM Skin</title><link rel="stylesheet" href="style.css"></head><body><header><a href="#inicio" aria-label="SALM Skin início"><img src="assets/wordmark.png" alt="SALM Skin"></a><nav><a href="#inicio">INÍCIO</a><a href="#serum">COMPRAR</a><a href="https://salmskin.lojavirtualnuvem.com.br/politica-de-privacidade">POLÍTICA DE PRIVACIDADE</a></nav><a class="shop" href="https://salmskin.lojavirtualnuvem.com.br/account/login">ACESSE SUA CONTA</a></header><main><section class="hero" id="inicio"><div class="intro"><h1>Sérum Facial<br><em>PDRN</em></h1><p class="lead">O <img class="brand-inline" src="assets/wordmark.png" alt="SALM Skin"> Sérum Facial Noturno foi desenvolvido com tecnologia avançada para promover uma renovação intensa da pele durante o período de descanso. Sua fórmula inteligente combina ativos nanoencapsulados de alta performance, que garantem maior absorção, eficácia e resultados visíveis em curto prazo.</p><a class="button" href="#serum">O SÉRUM</a></div><div class="liquid-photo hero-photo"><div class="portrait-stage"><img src="assets/ritual-transparent.png" alt="Modelo com conta-gotas e frasco SALM Skin"><i class="serum-drop"></i><i class="serum-drop second"></i></div></div></section><section class="section benefits benefits-orbit"><div class="benefits-composition"><h2 class="ad-title"><span class="t-small">Benefícios</span><span class="t-big">PRINCIPAIS</span></h2><div class="benefits-side"><article class="benefit-point"><svg class="line-icon" viewBox="0 0 24 24" aria-hidden="true"><path d="M20 14.5A8.5 8.5 0 0 1 9.5 4 8.5 8.5 0 1 0 20 14.5Z"/><path d="M17 3v4M15 5h4"/></svg>Estimula a regeneração noturna da pele</article><article class="benefit-point"><svg class="line-icon" viewBox="0 0 24 24" aria-hidden="true"><path d="M12 3v18M8 7l4-4 4 4M8 17l4 4 4-4"/><path d="M5 12h14"/></svg>Melhora a firmeza e elasticidade</article><article class="benefit-point"><svg class="line-icon" viewBox="0 0 24 24" aria-hidden="true"><path d="M3 7c3-2 6 2 9 0s6-2 9 0"/><path d="M3 12c3-1.3 6 1.3 9 0s6-1.3 9 0"/><path d="M3 17h18"/></svg>Reduz linhas finas e sinais de fadiga</article><article class="benefit-point"><svg class="line-icon" viewBox="0 0 24 24" aria-hidden="true"><path d="M12 3c-3 4.5-6 8-6 11a6 6 0 0 0 12 0c0-3-3-6.5-6-11Z"/><path d="M9.5 14.5a2.5 2.5 0 0 0 2.5 2.5"/></svg>Proporciona hidratação intensa e duradoura</article></div><div class="benefits-serum"><img class="benefits-photo" src="assets/serum-gota-foto.jpg" alt="Gota do Sérum Facial SALM Skin PDRN caindo no frasco"></div><div class="benefits-side"><article class="benefit-point"><svg class="line-icon" viewBox="0 0 24 24" aria-hidden="true"><circle cx="12" cy="12" r="4"/><path d="M12 2v2.5M12 19.5V22M2 12h2.5M19.5 12H22M4.9 4.9l1.8 1.8M17.3 17.3l1.8 1.8M4.9 19.1l1.8-1.8M17.3 6.7l1.8-1.8"/></svg>Uniformiza o tom e ilumina a pele</article><article class="benefit-point"><svg class="line-icon" viewBox="0 0 24 24" aria-hidden="true"><path d="M12 4v16M8 20h8M5 7h14"/><path d="M5 7l-2.5 6a2.5 2.5 0 0 0 5 0Z"/><path d="M19 7l-2.5 6a2.5 2.5 0 0 0 5 0Z"/></svg>Controla a oleosidade sem ressecar</article><article class="benefit-point"><svg class="line-icon" viewBox="0 0 24 24" aria-hidden="true"><path d="M20 4C11 4 5 9 5 17v3"/><path d="M20 4c0 9-5 14-13 14"/><path d="M5 17 15 9"/></svg>Textura leve, rápida absorção e toque sedoso</article></div></div></section><section class="section catalog" id="serum"><h2 class="catalog-title">O SÉRUM</h2><div class="catalog-grid"><article><img class="catalog-image" src="assets/serum-real-rosa.png" alt="Starter Glow"><h3>Starter Glow</h3><p class="cat-desc">Sérum Facial SALM Skin<br>PDRN · 1 mês<br>30 dias de tratamento</p><p class="cat-old"><del>R$259,00</del> <span>27% OFF</span></p><p class="cat-price"><strong>R$189,00</strong></p><details class="plan-details"><summary>Saiba mais</summary><p>Ideal para quem deseja iniciar sua jornada de cuidados com a SALM Skin. Este frasco é o ponto de partida para adaptar sua pele à tecnologia nanoencapsulada e sentir os primeiros sinais de renovação e viço.</p></details><a class="button" href="https://salmskin.lojavirtualnuvem.com.br/produtos/serum-facial-salm-skin-pdrn">COMPRAR </a></article><article><img class="catalog-image" src="assets/serum-modelo-rosa.png" alt="Advanced Care"><h3>Advanced Care</h3><p class="cat-desc">Sérum Facial SALM Skin<br>PDRN · 2 meses<br>60 dias de tratamento</p><p class="cat-old"><del>R$529,00</del> <span>32% OFF</span></p><p class="cat-price"><strong>R$359,00</strong></p><details class="plan-details"><summary>Saiba mais</summary><p>Quando o cuidado vira rotina. Este kit com 2 séruns é focado em quem já busca resultados mais consistentes na uniformização do tom e na firmeza da pele. A constância potencializa a ação regeneradora do Nano PDRN.</p></details><a class="button" href="https://salmskin.lojavirtualnuvem.com.br/produtos/serum-facial-salm-skin-pdrn-copia">COMPRAR </a></article><article><img class="catalog-image" src="assets/serum-gota-rosa.png" alt="Pro Skin Treatment"><h3>Pro Skin Treatment</h3><p class="cat-desc">Sérum Facial SALM Skin<br>PDRN · 3 meses<br>90 dias de tratamento</p><p class="cat-old"><del>R$779,00</del> <span>35% OFF</span></p><p class="cat-price"><strong>R$509,00</strong></p><details class="plan-details"><summary>Saiba mais</summary><p>BÔNUS EXCLUSIVO: Frete Grátis + Mini Guia Digital &quot;Rotina de Pele SALM Skin&quot;.<br><br>O protocolo recomendado para a transformação real da sua pele. Três meses é o ciclo ideal para que os ativos nanoencapsulados atuem profundamente em todas as camadas, entregando o máximo de regeneração, clareamento e rejuvenescimento.</p></details><a class="button" href="https://salmskin.lojavirtualnuvem.com.br/produtos/serum-facial-salm-skin-pdrn-copia1">COMPRAR </a></article></div></section><section class="liquid-section serum-story"><div class="faithful-product"><img src="assets/serum-recorte.png" alt="Embalagem original do Sérum Facial SALM Skin PDRN"></div><div class="liquid-copy"><h2>Sérum Facial<br><em><img class="brand-inline" src="assets/wordmark.png" alt="SALM Skin"> PDRN</em></h2><p>Regeneração Profunda Enquanto Você Dorme</p><p>Descubra o poder da renovação intensa com o Sérum Facial <img class="brand-inline" src="assets/wordmark.png" alt="SALM Skin"> PDRN, desenvolvido com tecnologia de ponta para transformar sua pele durante o descanso. Sua fórmula avançada conta com ativos nanoencapsulados que garantem absorção máxima e resultados visíveis em pouco tempo.</p></div></section><section class="formula section"><h2>Ativos Principais</h2><div class="ingredients"><article><svg class="active-icon" viewBox="0 0 32 32" aria-hidden="true"><circle cx="16" cy="16" r="7"/><circle cx="6" cy="8" r="3"/><circle cx="26" cy="8" r="3"/><circle cx="6" cy="25" r="3"/><circle cx="26" cy="25" r="3"/></svg><h3>Nano PDRN</h3><p>Estimula a renovação celular e a produção de colágeno, promovendo a reparação dos tecidos. Reduz linhas finas e melhora a firmeza da pele.</p></article><article><svg class="active-icon" viewBox="0 0 32 32" aria-hidden="true"><path d="M16 2C13 8 5 15 5 21a11 11 0 0 0 22 0C27 15 19 8 16 2Z"/></svg><h3>Ácido Hialurônico</h3><p>Proporciona hidratação profunda e prolongada, retendo a umidade natural da pele.</p></article><article><svg class="active-icon" viewBox="0 0 32 32" aria-hidden="true"><path d="m16 1 4 10 11 5-11 4-4 11-5-11L1 16l10-5Z"/></svg><h3>Nano Niacinamida (Vitamina B3)</h3><p>Uniformiza o tom da pele, reduz manchas e controla a oleosidade.</p></article></div></section><section class="ritual section"><img class="section-symbol" src="assets/symbol.png" alt=""><h2>Modo de Uso</h2><p>Com as mãos limpas, aplique de 3 a 4 gotas no rosto.</p><p>Espalhe com movimentos circulares até completa absorção.</p></section><section class="section label-info"><h2>Sobre o sérum</h2><p>O Sérum Facial SALM Skin é um potente hidratante enriquecido com ativos que proporcionam uma hidratação profunda, deixando uma sensação de suavidade irresistível.</p><p>Tratamento noturno · 30 ml · Dermatologicamente testado</p><details><summary>Composição</summary><p>Aqua, Xanthan Gum, Panthenol, Niacinamide, Propylene Glycol, Diazolidinyl Urea, Parfum, Lecithin, Sodium Hyaluronate, Sodium DNA, Caprylic/Capric Triglyceride, Phenoxyethanol, Polysorbate 80, Sorbitan Stearate, Caprylyl Glycol, PCA Ethyl Cocoyl Arginate, Benzyl Salicylate, Limonene, Iodopropynyl Butylcarbamate, Cyanocobalamin, Lactic Acid.</p></details><details><summary>Precauções</summary><p>Mantenha fora do alcance das crianças, em local fresco e protegido dos raios solares. Caso o produto entre em contato com os olhos, lave imediatamente com água em abundância. No caso de irritação, suspenda o uso e, se necessário, procure orientação médica. Uso externo.</p></details></section></main><footer><img class="footer-symbol" src="assets/symbol.png" alt="Símbolo SALM Skin"><img src="assets/wordmark.png" alt="SALM Skin"><a href="https://salmskin.lojavirtualnuvem.com.br/politica-de-privacidade">POLÍTICA DE PRIVACIDADE</a><div class="footer-contact" id="contato"><h3>CONTATO</h3><a class="social-link" href="https://www.instagram.com/salmskin/" target="_blank" rel="noopener noreferrer" aria-label="Instagram SALM Skin"><svg viewBox="0 0 24 24" aria-hidden="true"><rect x="3" y="3" width="18" height="18" rx="5" fill="none" stroke="currentColor" stroke-width="1.7"/><circle cx="12" cy="12" r="4" fill="none" stroke="currentColor" stroke-width="1.7"/><circle cx="17.5" cy="6.5" r="1" fill="currentColor"/></svg>@salmskin</a><p><a href="https://wa.me/5566992046531"><svg class="contact-icon" viewBox="0 0 24 24" fill="currentColor" aria-hidden="true"><path d="M12 2a10 10 0 0 0-8.6 15.1L2 22l5-1.3A10 10 0 1 0 12 2Zm-4 5c.4-.4.8-.3 1 .2l1 2c.2.4-.5 1-.7 1.3.8 1.7 1.8 2.7 3.5 3.4.4-.3.8-1.2 1.3-1l2 1c.5.2.6.5.3 1.1-.6 1.2-1.5 1.7-2.8 1.3-3.8-1-6.1-3.3-7.1-6.8C6.2 8.7 6.8 7.7 8 7Z"/></svg>66992046531</a></p><p><a href="tel:+5566992046531"><svg class="contact-icon" viewBox="0 0 24 24" fill="currentColor" aria-hidden="true"><path d="M6 2 2 5c0 9 8 17 17 17l3-4-5-4-3 3c-3-1-6-4-7-7l3-3Z"/></svg>+5566992046531</a></p><p><a href="mailto:dominiquemariadossantos@gmail.com"><svg class="contact-icon" viewBox="0 0 24 24" fill="currentColor" aria-hidden="true"><path d="M2 5h20v14H2Zm2 2v1l8 6 8-6V7l-8 6Z" fill-rule="evenodd"/></svg>DOMINIQUEMARIADOSSANTOS@GMAIL.COM</a></p><a class="button" href="https://salmskin.lojavirtualnuvem.com.br/contato">CONTATO </a></div><div class="creator-credit">Criado por <a href="https://www.instagram.com/designer.alannedias/" target="_blank" rel="noopener noreferrer">@designer.alannedias</a></div></footer><a class="whatsapp" href="https://wa.me/5566992046531">Fale conosco pelo WhatsApp </a><script src="app.js"></script></body></html>
 
 
